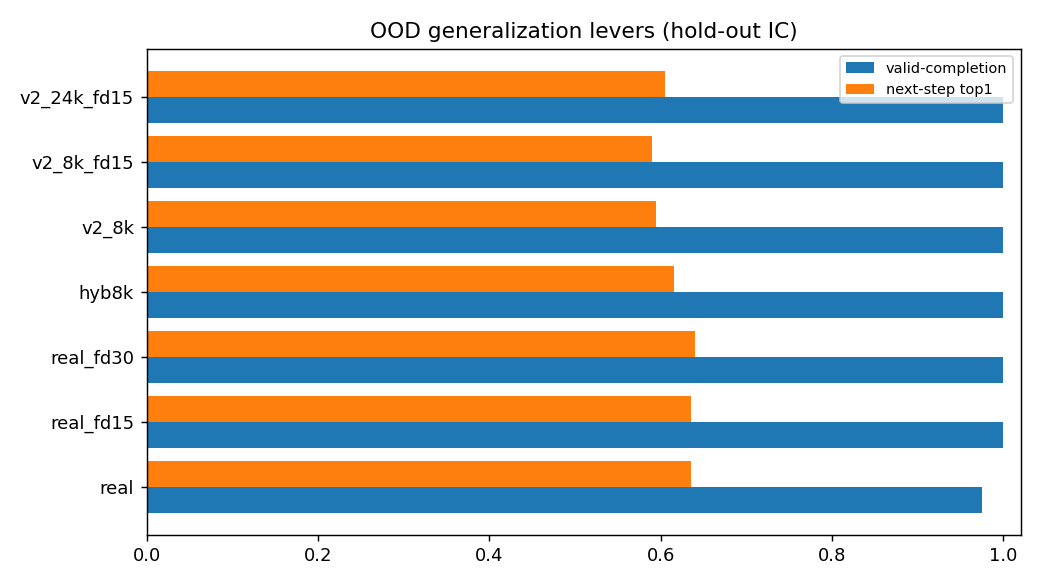
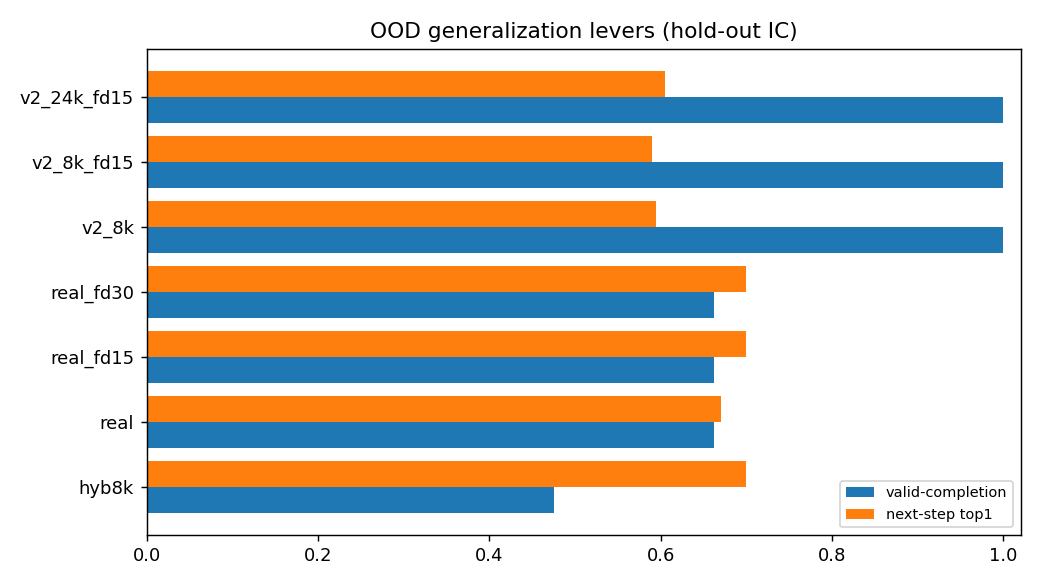
docs: full reproducibility command set (guided, wordlevel, dataset); refresh figures

diff --git a/submission/REPORT.md b/submission/REPORT.md
@@ -318,10 +318,15 @@ python -m process_lm.ood_compare --hold-out ic --epochs 30
 # final model + the three tasks + before/after demo
 python -m process_lm.train --n-layer 8 --n-embd 512 --n-head 8 \
     --family-dropout 0.15 --extra-per-family 2000 --out-dir process_lm/runs/final
-python -m process_lm.anomaly --ckpt process_lm/runs/final/best.pt
-python -m process_lm.submit  --ckpt process_lm/runs/final/best.pt --selfmake
-python -m process_lm.demo    --ckpt process_lm/runs/final/best.pt
+python -m process_lm.anomaly --ckpt process_lm/runs/final/best.pt          # Task 3
+python -m process_lm.submit  --ckpt process_lm/runs/final/best.pt --selfmake --guided   # 3 task files
+python -m process_lm.demo    --ckpt process_lm/runs/final/best.pt          # before/after
+python -m process_lm.guided  --ckpt process_lm/runs/ood/igbt_real/best.pt --family igbt # guided+repair OOD
+python -m process_lm.wordlevel --hold-out ic                              # word-level negative result
 python -m process_lm.plots
+
+# (optional) a giant validated synthetic corpus across all cores
+python -m process_lm.diversify2 --n 100000 --workers 14 --out v2_synth_100k.csv --report
 ```
 
 Figures: `process_lm/runs/figures/{loss_curves,scaling,hybrid_dose,levers}.png`.